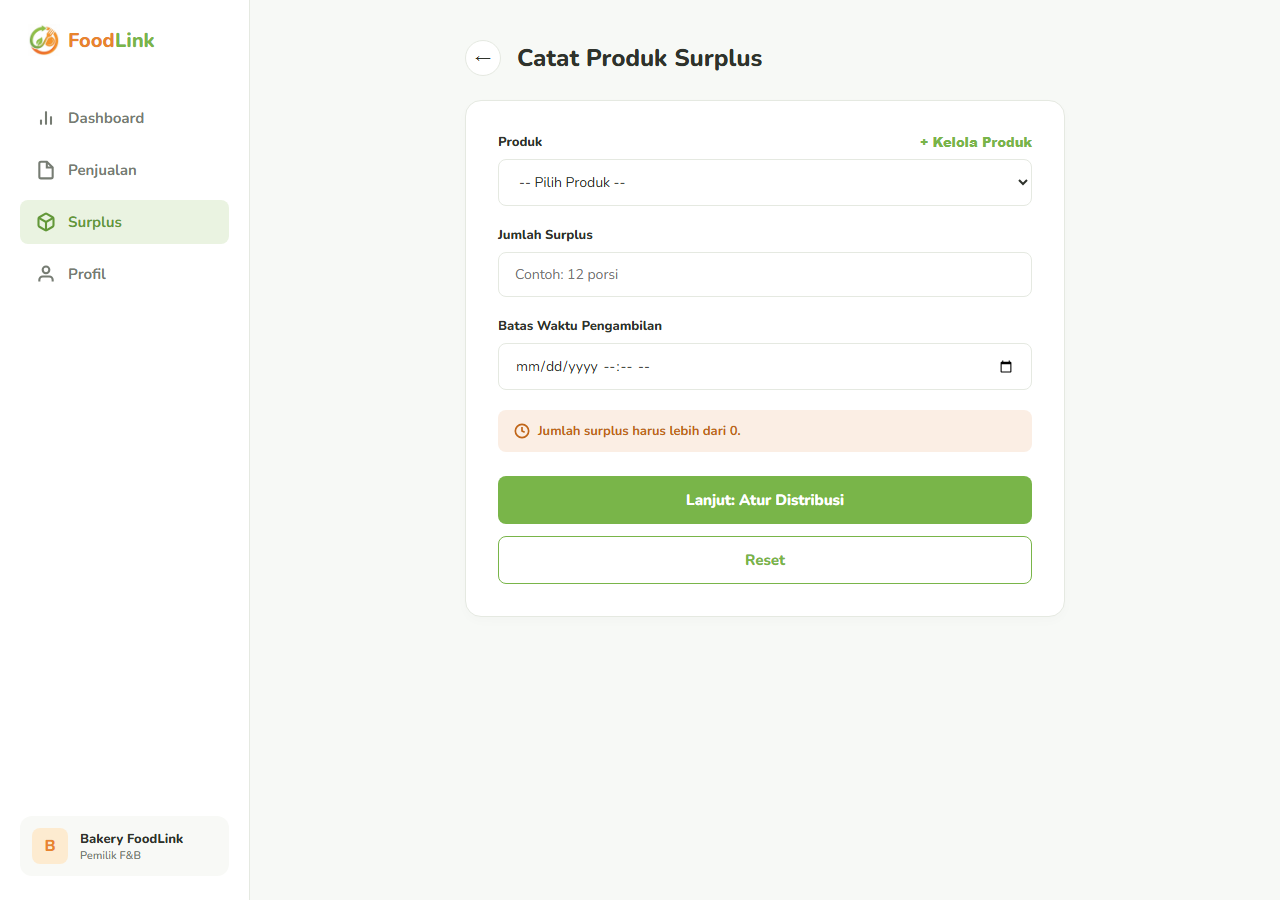
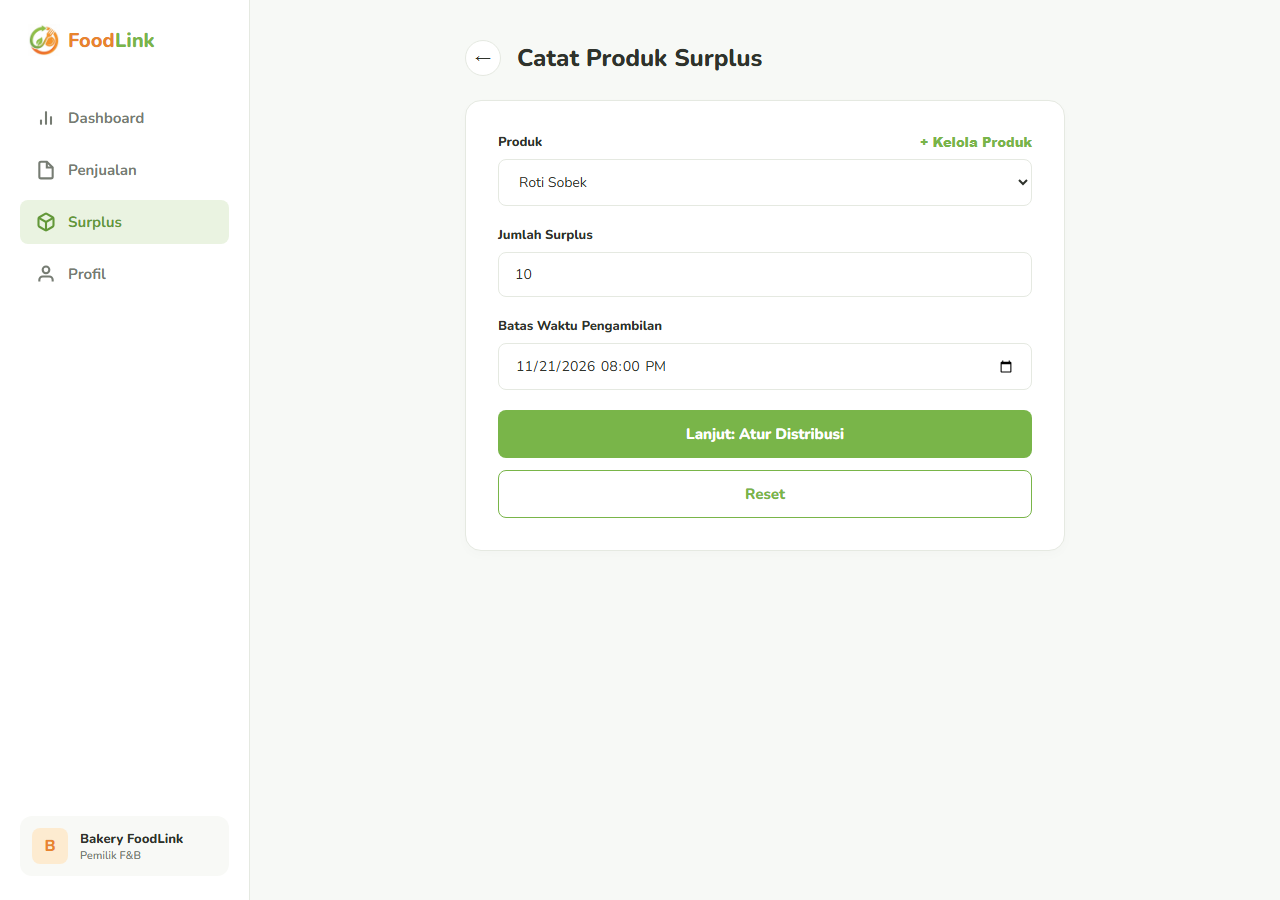
docs: complete 4.4 UC07-UC12 and align 4.6 evidence
Menambahkan Tabel 4.4.7 s.d. 4.4.12 dengan gaya yang sama seperti
UC01-UC06, lalu menyesuaikan baris dan gambar Bukti-4.4 dengan TC
yang benar-benar diuji pada Subbab 4.4.

Changed region(s): [[0.375, 0.4044, 0.8125, 0.6533], [0.4062, 0.28, 0.4688, 0.3111], [0.4062, 0.1867, 0.4688, 0.2178]]

diff --git a/docs/M10/KXX_GYY_HIUPL.md b/docs/M10/KXX_GYY_HIUPL.md
@@ -1133,6 +1133,86 @@ Tabel 4.4.6. Hasil Pengujian Use Case UC06
 | *UC06-TC01* | *KF08* | *Normal* | *1. Masuk sebagai Pemilik F&B.<br>2. Buka menu Catat Surplus.<br>3. Pilih produk, isi jumlah surplus, dan tentukan batas waktu pengambilan.<br>4. Klik tombol "Lanjut: Atur Distribusi".* | *Produk valid, jumlah surplus berupa bilangan bulat lebih dari 0, dan batas waktu setelah waktu sekarang.* | *Sistem menyimpan produk surplus beserta jumlah dan batas waktu pengambilannya, lalu memberi umpan balik bahwa pencatatan berhasil.* | *Sesuai. Data surplus tersimpan dengan status "tersedia", aktivitas pencatatan masuk ke log, dan pengguna diarahkan ke halaman pengaturan distribusi.* | *Pass* |
 | *UC06-TC02* | *KF08* | *Alternatif 1: Mereset Isian Formulir* | *1. Buka menu Catat Surplus.<br>2. Isi produk, jumlah surplus, dan batas waktu pengambilan.<br>3. Klik tombol "Reset".* | *Formulir terisi sebagian atau seluruhnya.* | *Sistem membatalkan pengisian dan mengembalikan formulir ke keadaan kosong.* | *Sesuai. Seluruh isian terhapus, formulir kembali kosong, dan tidak ada data surplus yang tersimpan.* | *Pass* |
 
+### 4.4.7 Use Case Mengatur Metode Distribusi Surplus
+
+**ID Use Case:** *UC07*  
+**Nama Use Case:** *Mengatur Metode Distribusi Surplus*
+
+Tabel 4.4.7. Hasil Pengujian Use Case UC07
+
+| ID Pengujian | ID KF | Skenario | Prosedur Pengujian | Masukan | Hasil yang Diharapkan | Hasil Pengujian | Kesimpulan |
+| :--- | :--- | :--- | :--- | :--- | :--- | :--- | :--- |
+| *UC07-TC01* | *KF09* | *Normal* | *1. Masuk sebagai Pemilik F&B.<br>2. Buka halaman pengaturan distribusi untuk produk surplus yang baru dicatat.<br>3. Pilih opsi "Jual Diskon".<br>4. Isi harga jual dengan 15000.<br>5. Klik tombol "Simpan".* | *Metode jual diskon dengan harga 15000.* | *Sistem memeriksa kelengkapan dan kevalidan harga, menyimpan metode distribusi beserta harga produk, lalu menampilkan pesan bahwa pengaturan berhasil disimpan.* | *Sesuai. Surplus dipublikasikan dengan metode "Jual Diskon" dan halaman konfirmasi menampilkan detail produk, jumlah, metode, serta batas waktu pengambilan.* | *Pass* |
+| *UC07-TC02* | *KF09* | *Alternatif 1: Memilih Donasi* | *1. Masuk sebagai Pemilik F&B.<br>2. Buka halaman pengaturan distribusi.<br>3. Pilih opsi "Donasi".<br>4. Biarkan kolom harga kosong.<br>5. Klik tombol "Simpan".* | *Metode donasi tanpa harga.* | *Sistem tidak mewajibkan pengisian harga, menyimpan metode distribusi sebagai donasi tanpa biaya, lalu menampilkan pesan bahwa pengaturan berhasil disimpan.* | *Sesuai. Metode donasi tersimpan dengan harga 0 dan halaman konfirmasi menampilkan metode "Donasi".* | *Pass* |
+| *UC07-TC03* | *KF09* | *Alternatif 2: Harga Penjualan Tidak Valid* | *1. Masuk sebagai Pemilik F&B.<br>2. Buka halaman pengaturan distribusi.<br>3. Pilih opsi "Jual Diskon".<br>4. Kosongkan atau isi harga dengan 0.<br>5. Klik tombol "Simpan".* | *Harga kosong atau 0.* | *Sistem menolak penyimpanan dan meminta harga berupa angka lebih dari nol.* | *Sesuai. Halaman pengaturan ditampilkan ulang dengan pesan "Harga jual diskon harus lebih dari 0." dan tidak ada pengaturan yang tersimpan.* | *Pass* |
+
+### 4.4.8 Use Case Melihat Informasi Produk Surplus
+
+**ID Use Case:** *UC08*  
+**Nama Use Case:** *Melihat Informasi Produk Surplus*
+
+Tabel 4.4.8. Hasil Pengujian Use Case UC08
+
+| ID Pengujian | ID KF | Skenario | Prosedur Pengujian | Masukan | Hasil yang Diharapkan | Hasil Pengujian | Kesimpulan |
+| :--- | :--- | :--- | :--- | :--- | :--- | :--- | :--- |
+| *UC08-TC01* | *KF10, KF11* | *Normal* | *1. Masuk sebagai Perwakilan NGO dengan lokasi tersedia.<br>2. Buka halaman daftar produk surplus.<br>3. Amati urutan daftar.<br>4. Pilih salah satu produk untuk melihat detail.* | *NGO berlokasi; beberapa produk surplus tersedia.* | *Sistem menampilkan daftar produk tersedia yang diurutkan dari jarak terdekat, lalu detail berisi jenis, jumlah, lokasi, batas waktu, metode distribusi, dan harga apabila produk dijual.* | *Sesuai. Daftar terurut dari produk terdekat dan halaman detail menampilkan jenis, jumlah, jarak, batas waktu, serta metode distribusi.* | *Pass* |
+| *UC08-TC02* | *KF10, KF11* | *Alternatif 1: Lokasi Pengguna Belum Tersedia* | *1. Masuk sebagai Perwakilan NGO yang belum mengisi lokasi.<br>2. Buka halaman daftar produk surplus.* | *Lokasi pengguna kosong.* | *Sistem meminta Perwakilan NGO memberikan lokasi agar produk dapat diurutkan berdasarkan jarak terdekat; daftar produk tetap ditampilkan tanpa informasi jarak.* | *Sesuai. Muncul ajakan mengisi lokasi dan daftar produk tetap tampil tanpa informasi jarak.* | *Pass* |
+| *UC08-TC03* | *KF10, KF11* | *Batas: Produk Tidak Lagi Tersedia* | *1. Buka daftar produk surplus yang memuat produk tersedia, terklaim, dan kedaluwarsa.<br>2. Klaim dua produk.<br>3. Buka kembali daftar.* | *Lima produk tersedia; dua produk diklaim; satu produk melewati batas waktu.* | *Produk yang berstatus terklaim atau melewati batas waktu tidak lagi ditampilkan pada daftar.* | *Sesuai. Daftar menyusut dari lima menjadi tiga produk; produk terklaim dan kedaluwarsa tidak tampil.* | *Pass* |
+
+### 4.4.9 Use Case Menyaring Informasi Produk Surplus
+
+**ID Use Case:** *UC09*  
+**Nama Use Case:** *Menyaring Informasi Produk Surplus*
+
+Tabel 4.4.9. Hasil Pengujian Use Case UC09
+
+| ID Pengujian | ID KF | Skenario | Prosedur Pengujian | Masukan | Hasil yang Diharapkan | Hasil Pengujian | Kesimpulan |
+| :--- | :--- | :--- | :--- | :--- | :--- | :--- | :--- |
+| *UC09-TC01* | *KF12* | *Normal* | *1. Masuk sebagai Perwakilan NGO.<br>2. Buka halaman daftar produk surplus.<br>3. Masukkan kata kunci "roti" dan pilih jenis "Makanan".<br>4. Terapkan penyaringan.* | *Kata kunci "roti"; jenis "Makanan".* | *Sistem menampilkan produk surplus yang sesuai dengan kata kunci dan seluruh kriteria, tetap diurutkan berdasarkan jarak terdekat.* | *Sesuai. Hanya produk makanan yang memuat kata kunci tampil dan urutan jarak tetap berlaku.* | *Pass* |
+| *UC09-TC02* | *KF12* | *Alternatif 1: Tidak Ada Produk yang Sesuai* | *1. Buka halaman daftar produk surplus.<br>2. Masukkan kata kunci yang tidak cocok dengan produk mana pun.<br>3. Terapkan penyaringan.* | *Kata kunci "tidakada".* | *Sistem menampilkan pesan bahwa tidak ada produk yang sesuai dan tetap menampilkan kata kunci serta kriteria yang digunakan.* | *Sesuai. Pesan kosong ditampilkan dan kata kunci tetap terlihat pada kolom pencarian.* | *Pass* |
+| *UC09-TC03* | *KF12* | *Batas: Kombinasi Filter Jarak dan Batas Waktu* | *1. Buka panel penyaringan.<br>2. Pilih jarak maksimal 2 km dan batas waktu "Besok".<br>3. Terapkan penyaringan.* | *Jarak maksimal 2 km; batas waktu "Besok".* | *Sistem menerapkan seluruh kriteria secara bersamaan dan hanya menampilkan produk yang memenuhi semuanya.* | *Sesuai. Hanya produk dalam radius 2 km yang berbatas waktu besok ditampilkan; filter jarak dan waktu bekerja bersamaan.* | *Pass* |
+
+### 4.4.10 Use Case Mengklaim Produk Surplus
+
+**ID Use Case:** *UC10*  
+**Nama Use Case:** *Mengklaim Produk Surplus*
+
+Tabel 4.4.10. Hasil Pengujian Use Case UC10
+
+| ID Pengujian | ID KF | Skenario | Prosedur Pengujian | Masukan | Hasil yang Diharapkan | Hasil Pengujian | Kesimpulan |
+| :--- | :--- | :--- | :--- | :--- | :--- | :--- | :--- |
+| *UC10-TC01* | *KF13* | *Normal* | *1. Masuk sebagai Perwakilan NGO.<br>2. Pilih produk surplus yang ingin diklaim.<br>3. Buka detail produk.<br>4. Klik tombol "Klaim".* | *Produk surplus berstatus tersedia.* | *Sistem memeriksa ketersediaan, menyetujui klaim, mencatat NGO yang mengklaim, mengubah status produk menjadi "terklaim", lalu menampilkan hasil pengajuan.* | *Sesuai. Halaman klaim berhasil tampil dengan informasi pengambilan dan status produk berubah menjadi "terklaim".* | *Pass* |
+| *UC10-TC02* | *KF13* | *Alternatif 1: Produk Sudah Diklaim NGO Lain* | *1. Masuk sebagai Perwakilan NGO lain.<br>2. Buka produk yang sudah diklaim NGO pertama.<br>3. Klik tombol "Klaim".* | *Produk surplus yang sudah berstatus terklaim.* | *Sistem menolak pengajuan, menampilkan pesan bahwa produk sudah diklaim, dan mempertahankan klaim yang telah berhasil sebelumnya.* | *Sesuai. Permintaan klaim kedua ditolak dengan status 409 beserta pesan bahwa produk sudah diklaim; klaim NGO pertama tetap berlaku.* | *Pass* |
+| *UC10-TC03* | *KF13* | *Batas: Klaim Serentak oleh Banyak NGO* | *Kirim 12 permintaan klaim secara paralel dari 12 sesi Perwakilan NGO berbeda pada produk yang sama.* | *Dua belas sesi NGO; satu produk tersedia.* | *Tepat satu klaim berhasil, klaim lainnya ditolak, dan hanya satu dokumen klaim yang tersimpan.* | *Sesuai. Satu sesi menerima halaman klaim berhasil (302) dan 11 sesi lainnya menerima penolakan (409).* | *Pass* |
+
+### 4.4.11 Use Case Mengonfirmasi Pengambilan Produk Surplus
+
+**ID Use Case:** *UC11*  
+**Nama Use Case:** *Mengonfirmasi Pengambilan Produk Surplus*
+
+Tabel 4.4.11. Hasil Pengujian Use Case UC11
+
+| ID Pengujian | ID KF | Skenario | Prosedur Pengujian | Masukan | Hasil yang Diharapkan | Hasil Pengujian | Kesimpulan |
+| :--- | :--- | :--- | :--- | :--- | :--- | :--- | :--- |
+| *UC11-TC01* | *KF14* | *Normal* | *1. Masuk sebagai Perwakilan NGO pemilik klaim.<br>2. Buka detail pengambilan produk.<br>3. Klik tombol konfirmasi pengambilan.<br>4. Pilih "Yes" pada pop-up konfirmasi.* | *Klaim berstatus terklaim dan belum selesai.* | *Sistem menampilkan pop-up konfirmasi; setelah memilih "Yes" status pengambilan berubah menjadi "selesai" dan pesan keberhasilan ditampilkan.* | *Sesuai. Status pengambilan berubah menjadi "selesai" dan halaman pengambilan selesai ditampilkan.* | *Pass* |
+| *UC11-TC02* | *KF14* | *Negatif/Batas: Konfirmasi Ganda dan Akses NGO Lain* | *1. Konfirmasi pengambilan untuk kedua kalinya.<br>2. Buka detail klaim yang sama dari sesi Perwakilan NGO lain.* | *ID klaim yang sama; sesi NGO lain.* | *Konfirmasi ganda ditolak dan NGO lain tidak diizinkan mengakses detail klaim.* | *Sesuai. Konfirmasi kedua ditolak dengan pesan bahwa pengambilan sudah dikonfirmasi, sedangkan NGO lain menerima status 403.* | *Pass* |
+| *UC11-TC03* | *KF14* | *Alternatif 1: Memilih "No" pada Pop-up Konfirmasi* | *1. Buka detail pengambilan.<br>2. Klik tombol konfirmasi pengambilan.<br>3. Pilih "No" pada pop-up konfirmasi.* | *Pop-up konfirmasi pengambilan.* | *Sistem menutup pop-up dan kembali menampilkan detail pengambilan tanpa mengubah status.* | *Sesuai. Pop-up tertutup dan status pengambilan tidak berubah.* | *Pass* |
+
+### 4.4.12 Use Case Mengecek Log Aktivitas Pengguna
+
+**ID Use Case:** *UC12*  
+**Nama Use Case:** *Mengecek Log Aktivitas Pengguna*
+
+Tabel 4.4.12. Hasil Pengujian Use Case UC12
+
+| ID Pengujian | ID KF | Skenario | Prosedur Pengujian | Masukan | Hasil yang Diharapkan | Hasil Pengujian | Kesimpulan |
+| :--- | :--- | :--- | :--- | :--- | :--- | :--- | :--- |
+| *UC12-TC01* | *KF15* | *Normal* | *1. Masuk sebagai Admin Sistem.<br>2. Buka menu log aktivitas pengguna.<br>3. Terapkan penyaringan "Klaim".* | *Daftar log tanpa filter; filter "Klaim".* | *Sistem menampilkan daftar log aktivitas beserta pilihan penyaringan, lalu menampilkan log yang sesuai dengan kriteria.* | *Sesuai. Daftar awal menampilkan seluruh aktivitas dan filter "Klaim" menampilkan hanya aktivitas klaim.* | *Pass* |
+| *UC12-TC02* | *KF15* | *Negatif: Kriteria Penyaringan Tidak Dikenal* | *1. Buka menu log aktivitas.<br>2. Terapkan kriteria penyaringan di luar pilihan yang tersedia.* | *Nilai filter di luar empat pilihan.* | *Sistem menolak penyaringan dan menampilkan pesan galat.* | *Sesuai. Halaman menampilkan status 400 beserta pesan bahwa kategori filter tidak dikenal.* | *Pass* |
+| *UC12-TC03* | *KF15* | *Negatif: Aktor Bukan Admin Sistem* | *Buka menu log aktivitas menggunakan sesi Perwakilan NGO atau Pemilik F&B.* | *Sesi non-admin.* | *Sistem menolak akses pengguna yang bukan Admin Sistem.* | *Sesuai. Pengguna non-admin menerima status 403 dan tidak dapat melihat log.* | *Pass* |
+| *UC12-TC04* | *KF15* | *Alternatif 1: Tidak Ada Log yang Sesuai dengan Penyaringan* | *1. Buka menu log aktivitas.<br>2. Terapkan kriteria penyaringan yang tidak cocok dengan log mana pun.* | *Kriteria filter tanpa hasil.* | *Sistem menampilkan pesan bahwa tidak ada log aktivitas yang sesuai dengan kriteria tersebut.* | *Sesuai. Pesan bahwa tidak ada log yang sesuai ditampilkan dengan filter tetap aktif.* | *Pass* |
+| *UC12-TC05* | *KF15* | *Alternatif 2: Belum Ada Log Aktivitas* | *Buka menu log aktivitas ketika belum ada aktivitas pengguna yang tercatat.* | *Tabel log masih kosong.* | *Sistem menampilkan pesan bahwa belum ada log aktivitas pengguna yang tersedia.* | *Sesuai. Pesan khusus "belum ada log aktivitas" ditampilkan dan berbeda dari pesan filter tanpa hasil.* | *Pass* |
+
 <br>
 
 ## 4.5 Pengujian Kebutuhan Non-Fungsional (KNF)
@@ -1197,26 +1277,19 @@ Tabel 4.6. Bukti Hasil Pengujian
 | *C34-UT01 – C34-UT06* | *<img src="assets/Bukti-4.2/C34-UT.png">* |
 | *C34 (coverage)* | *<img src="assets/Bukti-4.2/C34-Coverage.png">* |
 | *INT-TC01* | *[Sisipkan bukti pengujian integrasi]* |
-| *UC01-TC01* | *<img src="assets/Bukti-4.4/UC01-TC01.png">* |
-| *UC01-TC02* | *<img src="assets/Bukti-4.4/UC01-TC02.png">* |
-| *UC01-TC03* | *<img src="assets/Bukti-4.4/UC01-TC03.png">* |
-| *UC01-TC04* | *<img src="assets/Bukti-4.4/UC01-TC04.png">* |
-| *UC02-TC01* | *<img src="assets/Bukti-4.4/UC02-TC01.png">* |
-| *UC02-TC02* | *<img src="assets/Bukti-4.4/UC02-TC02.png">* |
-| *UC02-TC03* | *<img src="assets/Bukti-4.4/UC02-TC03.png">* |
-| *UC02-TC04* | *<img src="assets/Bukti-4.4/UC02-TC04.png">* |
-| *UC03-TC01* | *Menunggu: <img src="assets/Bukti-4.4/UC03-TC01-a.png"><br>Ditolak: <img src="assets/Bukti-4.4/UC03-TC01-b.png">* |
-| *UC03-TC02* | *<img src="assets/Bukti-4.4/UC03-TC02.png">* |
-| *UC03-TC03* | *<img src="assets/Bukti-4.4/UC03-TC03.png">* |
+| *UC01-TC01* | *<img src="assets/Bukti-4.4/UC01/UC01-TC01.png">* |
+| *UC01-TC02* | *<img src="assets/Bukti-4.4/UC01/UC01-TC02.png">* |
+| *UC01-TC03* | *<img src="assets/Bukti-4.4/UC01/UC01-TC03.png">* |
+| *UC02-TC01* | *<img src="assets/Bukti-4.4/UC02/UC02-TC01.png">* |
+| *UC02-TC02* | *<img src="assets/Bukti-4.4/UC02/UC02-TC02.png">* |
+| *UC03-TC01* | *Status diterima: <img src="assets/Bukti-4.4/UC03-TC01.png">* |
+| *UC03-TC02* | *Status ditolak: <img src="assets/Bukti-4.4/UC03-TC02.png">* |
 | *UC04-TC01* | *Halaman tersimpan: <img src="assets/Bukti-4.4/UC04-TC01.png"><br>Isian tersimpan (8 terjual, 2 tersisa): <img src="assets/Bukti-4.4/UC04-TC01-b.png">* |
-| *UC04-TC02* | *<img src="assets/Bukti-4.4/UC04-TC02.png">* |
-| *UC04-TC03* | *<img src="assets/Bukti-4.4/UC04-TC03.png">* |
+| *UC04-TC02* | *Pesan validasi: <img src="assets/Bukti-4.4/UC04-TC02.png">* |
 | *UC05-TC01* | *<img src="assets/Bukti-4.4/UC05-TC01.png">* |
 | *UC05-TC02* | *<img src="assets/Bukti-4.4/UC05-TC02.png">* |
 | *UC06-TC01* | *<img src="assets/Bukti-4.4/UC06-TC01.png">* |
-| *UC06-TC02* | *Jumlah 0: <img src="assets/Bukti-4.4/UC06-TC02-a.png"><br>Batas waktu lampau: <img src="assets/Bukti-4.4/UC06-TC02-b.png">* |
-| *UC06-TC03* | *<img src="assets/Bukti-4.4/UC06-TC03.png">* |
-| *UC06-TC04* | *Sebelum reset: <img src="assets/Bukti-4.4/UC06-TC04-a.png"><br>Sesudah reset: <img src="assets/Bukti-4.4/UC06-TC04-b.png">* |
+| *UC06-TC02* | *Sebelum reset: <img src="assets/Bukti-4.4/UC06-TC02-a.png"><br>Sesudah reset: <img src="assets/Bukti-4.4/UC06-TC02-b.png">* |
 | *UC07-TC01* | *<img src="assets/Bukti-4.4/UC07-TC01.png">* |
 | *UC07-TC02* | *<img src="assets/Bukti-4.4/UC07-TC02.png">* |
 | *UC07-TC03* | *<img src="assets/Bukti-4.4/UC07-TC03.png">* |
@@ -1232,11 +1305,11 @@ Tabel 4.6. Bukti Hasil Pengujian
 | *UC11-TC01* | *<img src="assets/Bukti-4.4/UC11-TC01.png">* |
 | *UC11-TC02* | *Konfirmasi ganda: <img src="assets/Bukti-4.4/UC11-TC02-a.png"><br>NGO lain: <img src="assets/Bukti-4.4/UC11-TC02-b.png">* |
 | *UC11-TC03* | *Pop-up konfirmasi: <img src="assets/Bukti-4.4/UC11-TC03-a.png"><br>Setelah memilih "Tidak": <img src="assets/Bukti-4.4/UC11-TC03-b.png">* |
-| *UC11-TC04* | *<img src="assets/Bukti-4.4/UC11-TC04.png">* |
 | *UC12-TC01* | *Semua log: <img src="assets/Bukti-4.4/UC12-TC01-a.png"><br>Filter Klaim: <img src="assets/Bukti-4.4/UC12-TC01-b.png">* |
 | *UC12-TC02* | *<img src="assets/Bukti-4.4/UC12-TC02.png">* |
 | *UC12-TC03* | *<img src="assets/Bukti-4.4/UC12-TC03.png">* |
-| *UC12-TC04* | *Filter tanpa hasil: <img src="assets/Bukti-4.4/UC12-TC04-a.png"><br>Belum ada log: <img src="assets/Bukti-4.4/UC12-TC04-b.png">* |
+| *UC12-TC04* | *Filter tanpa hasil: <img src="assets/Bukti-4.4/UC12-TC04-a.png">* |
+| *UC12-TC05* | *Belum ada log: <img src="assets/Bukti-4.4/UC12-TC04-b.png">* |
 | *KNF01-TC01* | *[Sisipkan bukti pengukuran parameter KNF01-TC01]* |
 | *...* | *...* |
 
